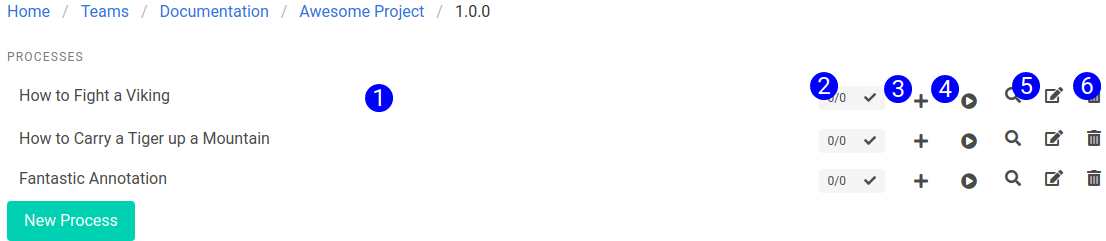
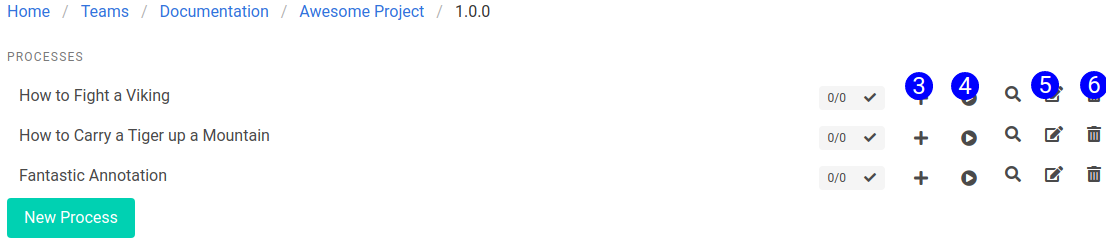
More Docs

diff --git a/docs/step_form_navigate.md b/docs/step_form_navigate.md
@@ -1,0 +1,17 @@
+## Navigation Step Form
+
+Selecting Navigate from the Step Type select input will cause the Navigation form to render, displaying these options:
+
+![New Step Form Reference](images/step_form_reference_navigation.png)
+
+1. **Type URL** - Selecting the type option will open a text input you can use to type in a URL to navigate to. This option is not recommended as UserDocs won't be able to associate elements to a page object, or determine what page you are on for the rest of the process.  This option may be deprecated in a future release.
+2. **Select** - Picking the select options will cause the page selector, and new page button to render. If you use the select option, all steps you create after this one will automatically be associated with the last page you navigated to. Additionally, all elements and annotations you create will be associated with the page, so that you can manage what elements and annotations belong to which pages in your application.
+3. **Page Selector** - Use this dropdown to pick any page that exists in the project.
+4. **Create Page** - Clicking the new page button will create a blank page, and empty the fields in the page subform.
+5. **Version Selector** - This field will be deprecated.  It shouldn't be used.
+6. **Order** - This field will be deprecated. It shouldn't be used.
+7. **Name** - A descriptive name for the page. Will be used in the UI.
+8. **Url** - The URL for the page. This is the address that UserDocs will navigate to when the step is executed. Should be entered in the form protocol://address.com, like https://www.google.com
+
+## Accessible at
+`/steps/:id/edit`

diff --git a/docs/step_form_click.md b/docs/step_form_click.md
@@ -1,0 +1,19 @@
+## Click Step Form
+
+Selecting Click from the Step Type select input will cause the Click form to render, displaying these fields:
+
+![New Step Form Reference](images/step_form_reference_click.png)
+
+1. **Element Selector** - Picks the element to associated with the step. UserDocs will locate the element with the strategy and selector specified on the object, and simulate a click on the object.
+2. **Create Element** - Creates an empty element object, clearing the fields in the Element subform.
+3. **Name** - A descriptive name of the element. Will be used in the UI, and in automatic naming schemes for the step.
+4. **Strategy** - The strategy used to apply the selector. UserDocs supports CSS and xpath selectors.
+5. **Selector** - The selector that UserDocs will use to locate the element.
+6. **Transfer Selector** - This button will transfer the selector, automatically sent over from the automated browser from the 'Transferred Selector' element (designated by 8) into the selector field.
+7. **Test Selector** - This button will highlight the selector in the automated browser window, to help you test your selector.
+8. **Transferred Selector** - Displays the selector transferred over from the automated browser for review before transferring into the field.
+
+> The Transfer Selector and Test Selector features are currently offline, and will be re-enabled in the near future.
+
+## Accessible at
+`/steps/:id/edit`

diff --git a/docs/step_form_new.md b/docs/step_form_new.md
@@ -1,0 +1,12 @@
+# New Step Form
+
+When creating a step for the first time, most options will not be available. Select your step type, save the step, then re-open it to access the full form.
+
+![New Step Form Reference](images/step_form_reference_new.png)
+
+1. **Process Selector** - Use this input to move a step to a different process. Changing the process and saving this form will change which process the step belongs to. It will disappear from the menu after you save it.
+2. **Order** - This is the order that the step will be executed in. This field is important, and must be entered. UserDocs recommends ordering your steps in 10's, so that you have room to insert new steps. This field will be deprecated when we implement drag-and-drop ordering.
+3. **Step Type** - This field is used to pick the Step Type. When editing the form, additional fields will appear depending on the step type you select.
+
+## Accessible at
+`/steps/new`

diff --git a/docs/process_menu.md b/docs/process_menu.md
@@ -1,10 +1,6 @@
 # Processes Page
 
-The Processes page displays all the processes for the selected team, project and version.  The current selections are displayed in the breadcrumb.
-
-## Processes
-
-The processes are listed here. Interact with them by clicking the referenced element.
+The Processes page displays all the processes for the selected team, project and version.  The current selections are displayed in the breadcrumb. 
 
 ![Process Menu Reference](images/process_menu_reference.png)
 

diff --git a/docs/step_menu.md b/docs/step_menu.md
@@ -1,7 +1,5 @@
 # Steps Menu
 
-## Menu
-
 The steps menu shows all the steps in a process. It is always filtered by the process id in the URL. It's typically accessed in the context of the selected version. The breadcrumb to the record is displayed at the top of the page.
 
 ![Step Menu Reference](images/step_menu_reference.png)
